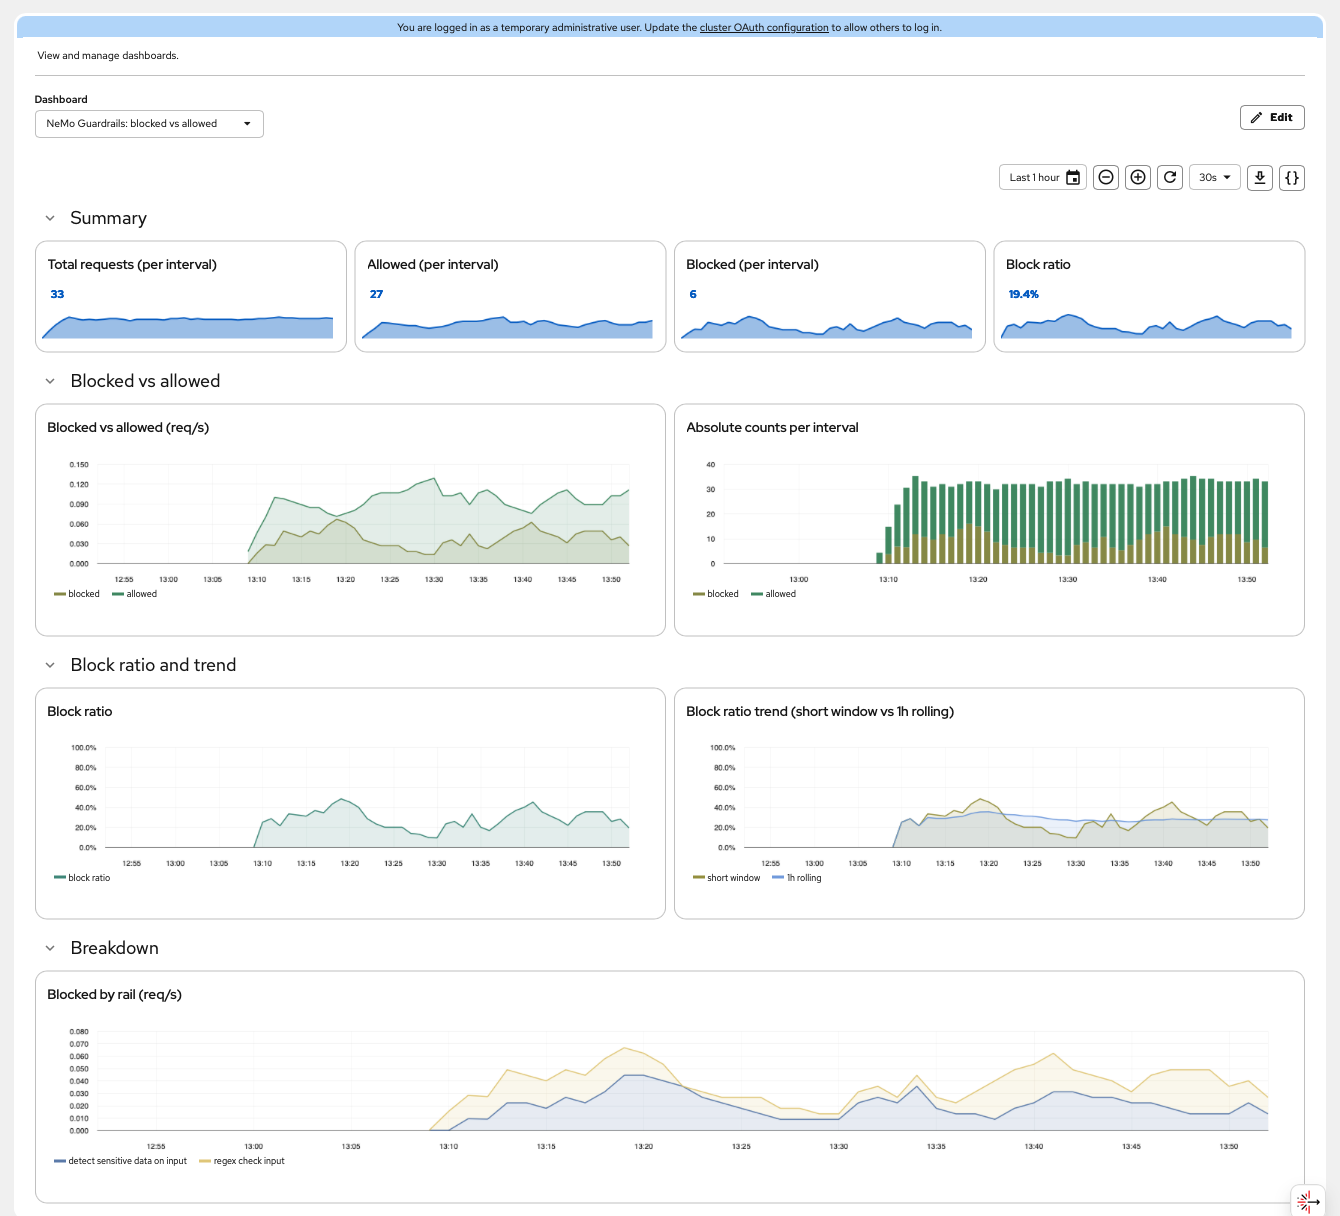
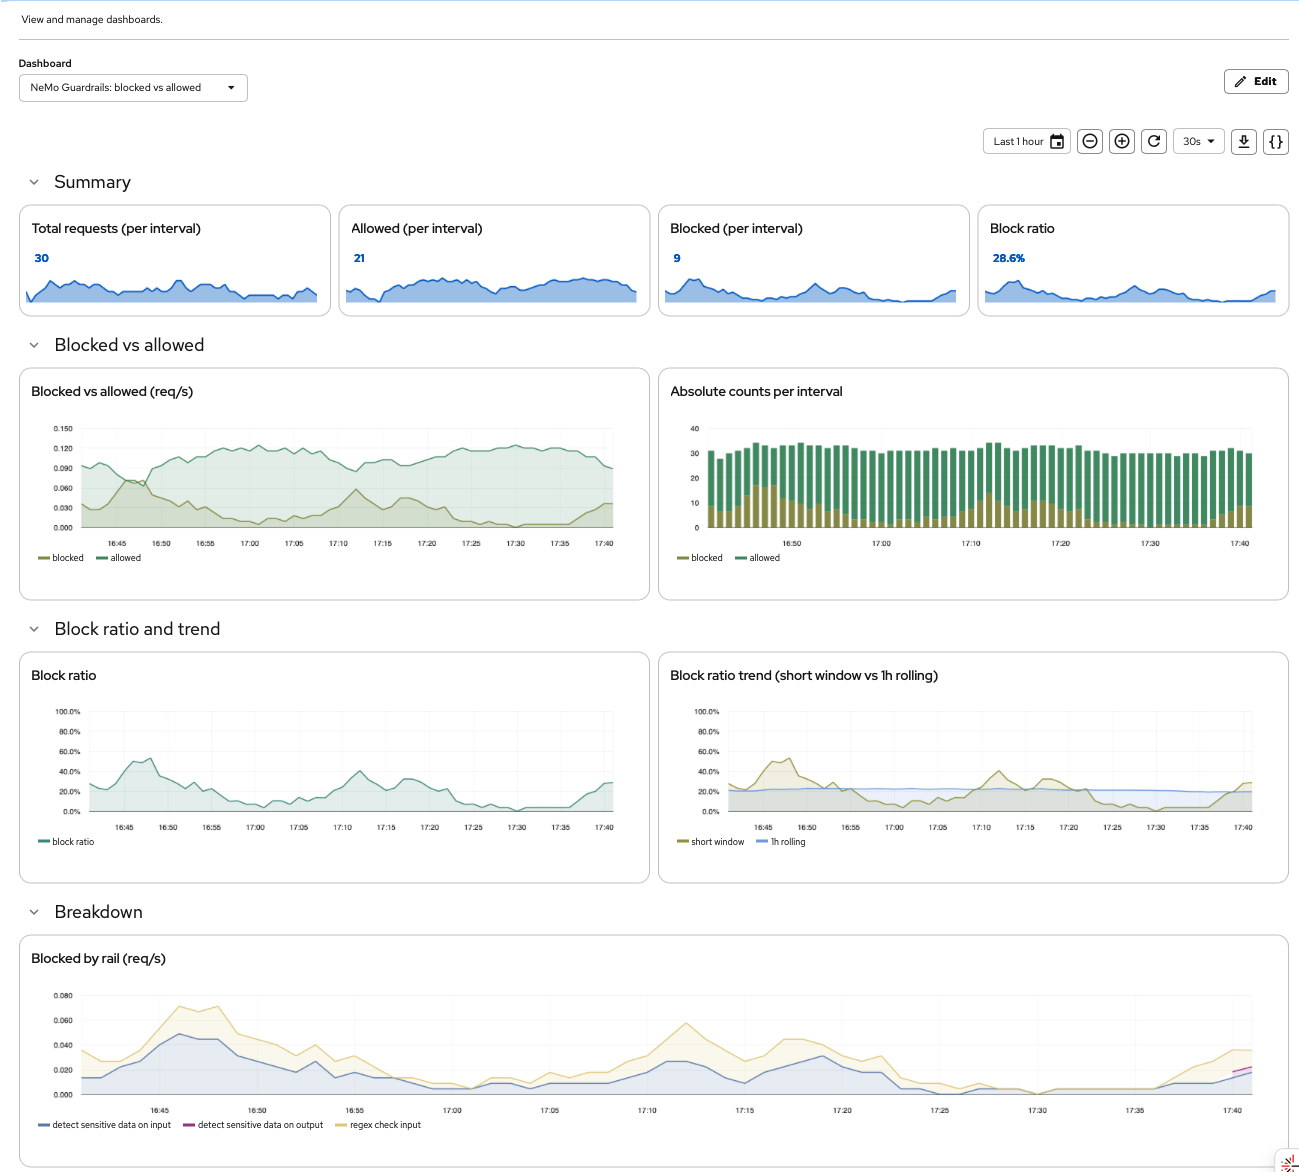
Correct metrics claims, document native metrics and check endpoints
- Scope the "traces only" statement to the Presidio/regex rails (LLMRails
  engine); document NeMo's native IORails counters, verified live, with
  examples/native-metrics.yaml.
- Document both check-only endpoints (/v1/checks upstream, fork-only
  /v1/guardrail/checks) and where the refusal text comes from.
- probe.sh also exercises /v1/checks.
- Replace screenshot with the full-hour run; fix unverified version
  claims (OCP, COO); list what was not tested.
- Troubleshooting: HTTP 200 on configuration load errors.

diff --git a/README.md b/README.md
@@ -16,15 +16,18 @@ Everything is reproducible with three environment variables and one script.
 
 ![NeMo Guardrails blocked vs allowed dashboard in the OpenShift console](docs/images/perses-dashboard.png)
 
-*The dashboard in the OpenShift console (Observe, Dashboards (Perses)) after about 45 minutes of
-synthetic traffic whose block rate swings between roughly 10% and 50%. Top to bottom: summary stats,
-blocked vs allowed rate and absolute counts per interval, block ratio and its trend against a 1h
-rolling baseline, and blocked requests by rail.*
+*The dashboard in the OpenShift console (Observe, Dashboards (Perses)) over a full hour of synthetic
+traffic whose block rate swings between roughly 0% and 50%. Top to bottom: summary stats for the latest
+interval, blocked vs allowed rate and absolute counts per interval, block ratio and its trend against a 1h
+rolling baseline, and blocked requests by rail (Presidio on input, the regex rail, and a few Presidio
+blocks on output at the right edge).*
 
 ## Why this exists
 
-Red Hat's NeMo Guardrails integration exports **traces only** (`OTEL_METRICS_EXPORTER=none`), so there is
-no ready-made `guardrails_requests_blocked_total` to chart. This repo shows how to derive it from the
+With the rails used here (Presidio and regex), NeMo Guardrails on RHOAI exports **traces only**
+(`OTEL_METRICS_EXPORTER=none`). NeMo's native request counters are emitted only by its newer IORails engine,
+which does not support these rails, so there is no ready-made `guardrails_requests_blocked_total` to chart.
+This repo shows how to derive it from the
 spans NeMo already emits, with nothing but supported Red Hat components (OpenTelemetry Collector,
 User Workload Monitoring, Cluster Observability Operator). It also records what behaves differently
 from the documentation. See [docs/how-it-works.md](docs/how-it-works.md).
@@ -48,11 +51,11 @@ flowchart LR
 
 | Need | Notes |
 |---|---|
-| OpenShift 4.15+ | Tested on 4.21 |
+| OpenShift | Tested on 4.21 only; older releases were not tested |
 | Red Hat OpenShift AI 3.5+ | TrustyAI component set to `Managed` (provides the `NemoGuardrails` CRD) |
 | `cluster-admin` | Installs operators and enables a console plugin |
 | User workload monitoring | `enableUserWorkload: true` in `cluster-monitoring-config` (see below) |
-| `redhat-operators` catalog | Must offer `opentelemetry-product` and `cluster-observability-operator` |
+| `redhat-operators` catalog | Must offer `opentelemetry-product` and `cluster-observability-operator` (tested with COO 1.5.3; the dashboard CRs use `perses.dev/v1alpha2`) |
 | An OpenAI-compatible model | Endpoint ending in `/v1` plus an API key (a KServe vLLM service works) |
 | Local tools | `oc`, `bash`, `python3` (only for `verify.sh`) |
 
@@ -85,7 +88,7 @@ export MODEL_API_KEY=<token for the model endpoint>
 
 ./scripts/deploy.sh        # operators, collector, guardrails, app, dashboard
 ./scripts/verify.sh        # every stage green and current numbers
-./scripts/probe.sh         # four sample prompts, raw responses
+./scripts/probe.sh         # four sample prompts: chat completions, then /v1/checks
 ```
 
 Then open the OpenShift console: **Observe, Dashboards (Perses)**, project `guardrails-demo`,
@@ -129,7 +132,7 @@ Why separate namespaces for the operators: see
 
 | Stage | Rail | Catches |
 |---|---|---|
-| input | `detect sensitive data on input` (Presidio) | email, phone (international format), US SSN, credit card |
+| input | `detect sensitive data on input` (Presidio) | email, phone (international format), credit card, and some SSNs (it missed `123-45-6789` at the 0.5 threshold; the regex rail below covers the pattern) |
 | input | `regex check input` | words like `password`/`api_key`/`token`, and `NNN-NN-NNNN` |
 | output | `detect sensitive data on output` (Presidio) | same entities in model responses |
 
@@ -150,11 +153,17 @@ oc rollout restart deploy/nemo-demo -n guardrails-demo
 [email  ] http=200  0.02s :: "I don't know the answer to that."
 [ssn    ] http=200  0.02s :: "I don't know the answer to that."
 [secret ] http=200  0.02s :: "I'm sorry, I can't respond to that."
+--- check-only mode: POST /v1/checks (verdict only, no model call)
+[allowed] http=200  0.02s :: status=passed rail=None
+[email  ] http=200  0.02s :: status=blocked rail=detect sensitive data on input
+[ssn    ] http=200  0.02s :: status=blocked rail=detect sensitive data on input
+[secret ] http=200  0.02s :: status=blocked rail=regex check input
 ```
 
 Two things to notice. Blocked input is an **HTTP 200** with a canned refusal, and the refusal text
-depends on which rail fired, so response text and status code cannot be used to count blocks. That
-is why the dashboard is built on spans. And the "allowed" answer is a reasoning model's thinking
+depends on which rail fired (a fixed message from NeMo's built-in flows, not model output; see
+[docs/how-it-works.md](docs/how-it-works.md#where-the-refusal-text-comes-from)), so response text and
+status code cannot be used to count blocks. That is why the dashboard is built on spans. And in my run the "allowed" answer was a reasoning model's thinking
 text cut off by the small `max_tokens`; that is the model, not the guardrail.
 
 Shape the synthetic traffic from the `traffic-gen` Deployment env (see `manifests/06-chat-app.yaml`):
@@ -183,6 +192,7 @@ behind by design.
 manifests/    numbered, templated Kubernetes manifests (apply in order)
 scripts/      deploy.sh, verify.sh, probe.sh, teardown.sh, _common.sh
 docs/         how-it-works.md (span model, metrics, queries), troubleshooting.md
+examples/     native-metrics.yaml: NeMo's native counters on the IORails engine (not applied by deploy.sh)
 ```
 
 ## Tested on
@@ -190,6 +200,15 @@ docs/         how-it-works.md (span model, metrics, queries), troubleshooting.md
 OpenShift 4.21.30 (single node), Red Hat OpenShift AI 3.5.1, Cluster Observability Operator 1.5.3,
 Red Hat build of OpenTelemetry 0.158.0-3, NeMo Guardrails 0.24.0.dev0 (the RHOAI server image),
 model served by KServe/vLLM.
+
+Not tested:
+
+- RHOAI 3.6 or any release other than 3.5.1. Check-only endpoint names may change between releases
+  (see [docs/how-it-works.md](docs/how-it-works.md#behaviors-that-differ-from-the-documentation)).
+- The operator-install branch of `deploy.sh` from a clean cluster. The operators were originally
+  installed from `manifests/00-operators.yaml`, but the script's wait expressions were only checked
+  against operators that were already present (use `SKIP_OPERATORS=1` if you manage them yourself).
+- OpenShift releases other than 4.21.
 
 ## Limitations
 

diff --git a/docs/how-it-works.md b/docs/how-it-works.md
@@ -107,11 +107,69 @@ apart.
 
 | Topic | Documentation | Observed |
 |---|---|---|
-| Blocked chat completion | `{"status":"blocked", ...}` | HTTP 200 with a canned refusal in `choices[0].message.content`. The `status`/`rails_status` shape belongs to `/v1/guardrail/checks`. |
-| Refusal text | n/a | Differs per rail (`I'm sorry, I can't respond to that.` for the regex rail, `I don't know the answer to that.` for Presidio). |
-| Metrics | observability implied | Traces only. No guardrail metrics from the NeMo pod. |
+| Blocked chat completion (inline mode, `/v1/chat/completions`) | `{"status":"blocked", ...}` | HTTP 200 with a canned refusal in `choices[0].message.content` and no blocked flag. |
+| Check-only mode, upstream (`/v1/checks`) | Documented as single-turn checks that can transform content | Confirmed live: HTTP 200, `{"status": "passed" or "blocked", "content": ..., "rail": "<rail that blocked>"}`. No model call. Upstream NeMo (`v0.24.0`) has this endpoint. |
+| Check-only mode, Red Hat fork (`/v1/guardrail/checks`) | `status` is `success`, `blocked` or `error`, plus `rails_status` | Confirmed live: HTTP 200, `status` is `success` or `blocked` (never `allowed`), per-rail `rails_status`, no model call. Fork-only, per the source. Planned for deprecation in RHOAI 3.6 in favor of `/v1/checks`. |
+| Refusal text | n/a | Differs per rail (`I'm sorry, I can't respond to that.` for the regex rail, `I don't know the answer to that.` for Presidio). Not model output: see [Where the refusal text comes from](#where-the-refusal-text-comes-from). |
+| Metrics | observability implied | With the Presidio and regex rails used here (the `LLMRails` engine): traces only, and the pod has no `/metrics` endpoint. NeMo does define native counters (`guardrails.requests`, `guardrails.requests.blocked`, ...), but only its newer IORails engine emits them, and IORails supports only content-safety, topic-safety, jailbreak-detection and tool-validation rails. |
 | Presidio SSN | `US_SSN` entity listed | `123-45-6789` scored below 0.5 and was not blocked; `219-09-9999` was. The regex rail covers the pattern deterministically. |
 | `enable-auth: 'true'` | "requires a bearer token" | Adds a kube-rbac-proxy sidecar (pod 2/2), serves on 443 with service-CA TLS, Route is `reencrypt`. Callers need a token with the `view` role. |
+
+## Where the refusal text comes from
+
+The refusal strings are fixed messages in NeMo's built-in Colang flows, not output of the main model
+or of a guardrail prompt. Inspected in the running server image (`nemoguardrails` 0.24.0.dev0, the
+`*.v1.co` Colang 1.0 flows used when a config sets no `colang_version`):
+
+| Rail | Flow (under `/app/nemoguardrails/library/`) | Message used | Text |
+|---|---|---|---|
+| `regex check input` / `output` | `regex/flows.v1.co` | `bot refuse to respond` | `I'm sorry, I can't respond to that.` |
+| `detect sensitive data on input` / `output` | `sensitive_data_detection/flows.v1.co` | `bot inform answer unknown` | `I don't know the answer to that.` |
+
+The sensitive-data flows do not define their own refusal. They reuse `bot inform answer unknown`, which
+lives in the hallucination library (`hallucination/flows.v1.co`). That is why a PII block reads like
+a "no answer" message.
+
+To see it yourself:
+
+```bash
+oc exec -n guardrails-demo deploy/nemo-demo -c nemo-guardrails -- \
+  grep -rn "I don't know the answer to that\|can't respond to that" /app/nemoguardrails/library --include=*.v1.co
+```
+
+The NeMo docs show how to override the `bot refuse to respond` message by redefining it in a Colang file
+([self-check rails](https://docs.nvidia.com/nemo/guardrails/latest/configure-guardrails/guardrail-catalog/self-check)).
+Whether `bot inform answer unknown` can be overridden the same way from the config's `rails.co` has
+not been tested here. The Presidio page only says the bot "will refuse to respond"
+([Presidio integration](https://docs.nvidia.com/nemo/guardrails/latest/configure-guardrails/guardrail-catalog/third-party/presidio)).
+
+## Native NeMo metrics (IORails engine)
+
+NeMo 0.24.0.dev0 defines native OpenTelemetry counters, but this demo's rails cannot use them. Verified
+on the RHOAI 3.5.1 image with [examples/native-metrics.yaml](../examples/native-metrics.yaml):
+
+| Requirement | Why |
+|---|---|
+| `NEMO_GUARDRAILS_IORAILS_ENGINE=true` | selects the IORails engine (default is LLMRails) |
+| `metrics.enabled: true` in `config.yaml` | defaults to `false` |
+| `OTEL_METRICS_EXPORTER=otlp` | the RHOAI docs set `none`; the image runs OpenTelemetry auto-instrumentation, so this env var picks the exporter |
+| a collector with a metrics pipeline `otlp -> prometheus` | the demo collector only has `spanmetrics -> prometheus` |
+| rails IORails supports | `content safety check input/output`, `topic safety check input`, `jailbreak detection model`, tool call/result validation. Anything else (Presidio, regex, self-check) makes NeMo fall back to LLMRails, which emits no native metrics. |
+
+Series seen at the collector's Prometheus exporter:
+
+| Series | Labels |
+|---|---|
+| `guardrails_requests_total` (counter) | none |
+| `guardrails_requests_blocked_total` (counter) | `rail_type` (value `Input`, capitalized; no `rail_name`) |
+| `guardrails_request_duration_seconds` (histogram), `guardrails_requests_active`, `guardrails_nonstream_*_ratio` | |
+| `gen_ai_client_operation_duration_seconds`, `gen_ai_client_token_usage` | `gen_ai_*` labels per LLM call |
+
+These are the same names the dashboard queries use, but there is no per-rail label, so the "Blocked by
+rail" panel needs the span-derived series. Limits of the test: it used the main reasoning model as the
+content-safety classifier, so every request was classified unsafe (4 requests, 4 blocked) and the
+allowed path was not exercised; the span-derived pipeline is what this repo's dashboard is built and
+validated on.
 
 ## Extending
 

diff --git a/docs/troubleshooting.md b/docs/troubleshooting.md
@@ -78,6 +78,15 @@ need a bearer token of an identity with the `view` role in the namespace
 (`manifests/04-app-rbac.yaml` grants it to `chat-app`). From outside the cluster use
 `Authorization: Bearer $(oc whoami -t)` against the Route.
 
+## HTTP 200 with "Could not load the [...] guardrails configuration"
+
+NeMo returns an HTTP 200 chat completion whose content is
+`Could not load the ['<config>'] guardrails configuration. An internal error has occurred.` when the
+configuration fails to load, for example because `MODEL_API_KEY` is not set in the pod
+(`Model API Key environment variable 'MODEL_API_KEY' not set`). Read the pod log for the validation
+error: `oc logs deploy/nemo-demo -c nemo-guardrails | grep -B2 -A8 ValidationError`. A copied Secret
+with the wrong source name produces exactly this.
+
 ## NeMo cannot reach the model (TLS or 401)
 
 - `MODEL_BASE_URL` must end in `/v1`.
@@ -95,9 +104,9 @@ behavior. Raise `max_tokens` in `manifests/06-chat-app.yaml` (`app.py`) or use a
 ## Everything is "blocked" or nothing is
 
 Check the rails in the ConfigMap. Name detection (`PERSON`) is not enabled in this demo; add it under
-`entities` if you want it. In testing, phone numbers only reached the default 0.5 score in
-international format (`+1 415 ...`), and `123-45-6789` was not flagged by Presidio at all, which is
-why the regex rail carries the `NNN-NN-NNNN` pattern.
+`entities` if you want it. In testing, phone numbers only reached the configured 0.5 score in
+international format (`+1 415 ...`), and `123-45-6789` scored below 0.5 for Presidio (`219-09-9999`
+was blocked), which is why the regex rail carries the `NNN-NN-NNNN` pattern.
 
 ## After teardown, an empty Perses project remains
 
